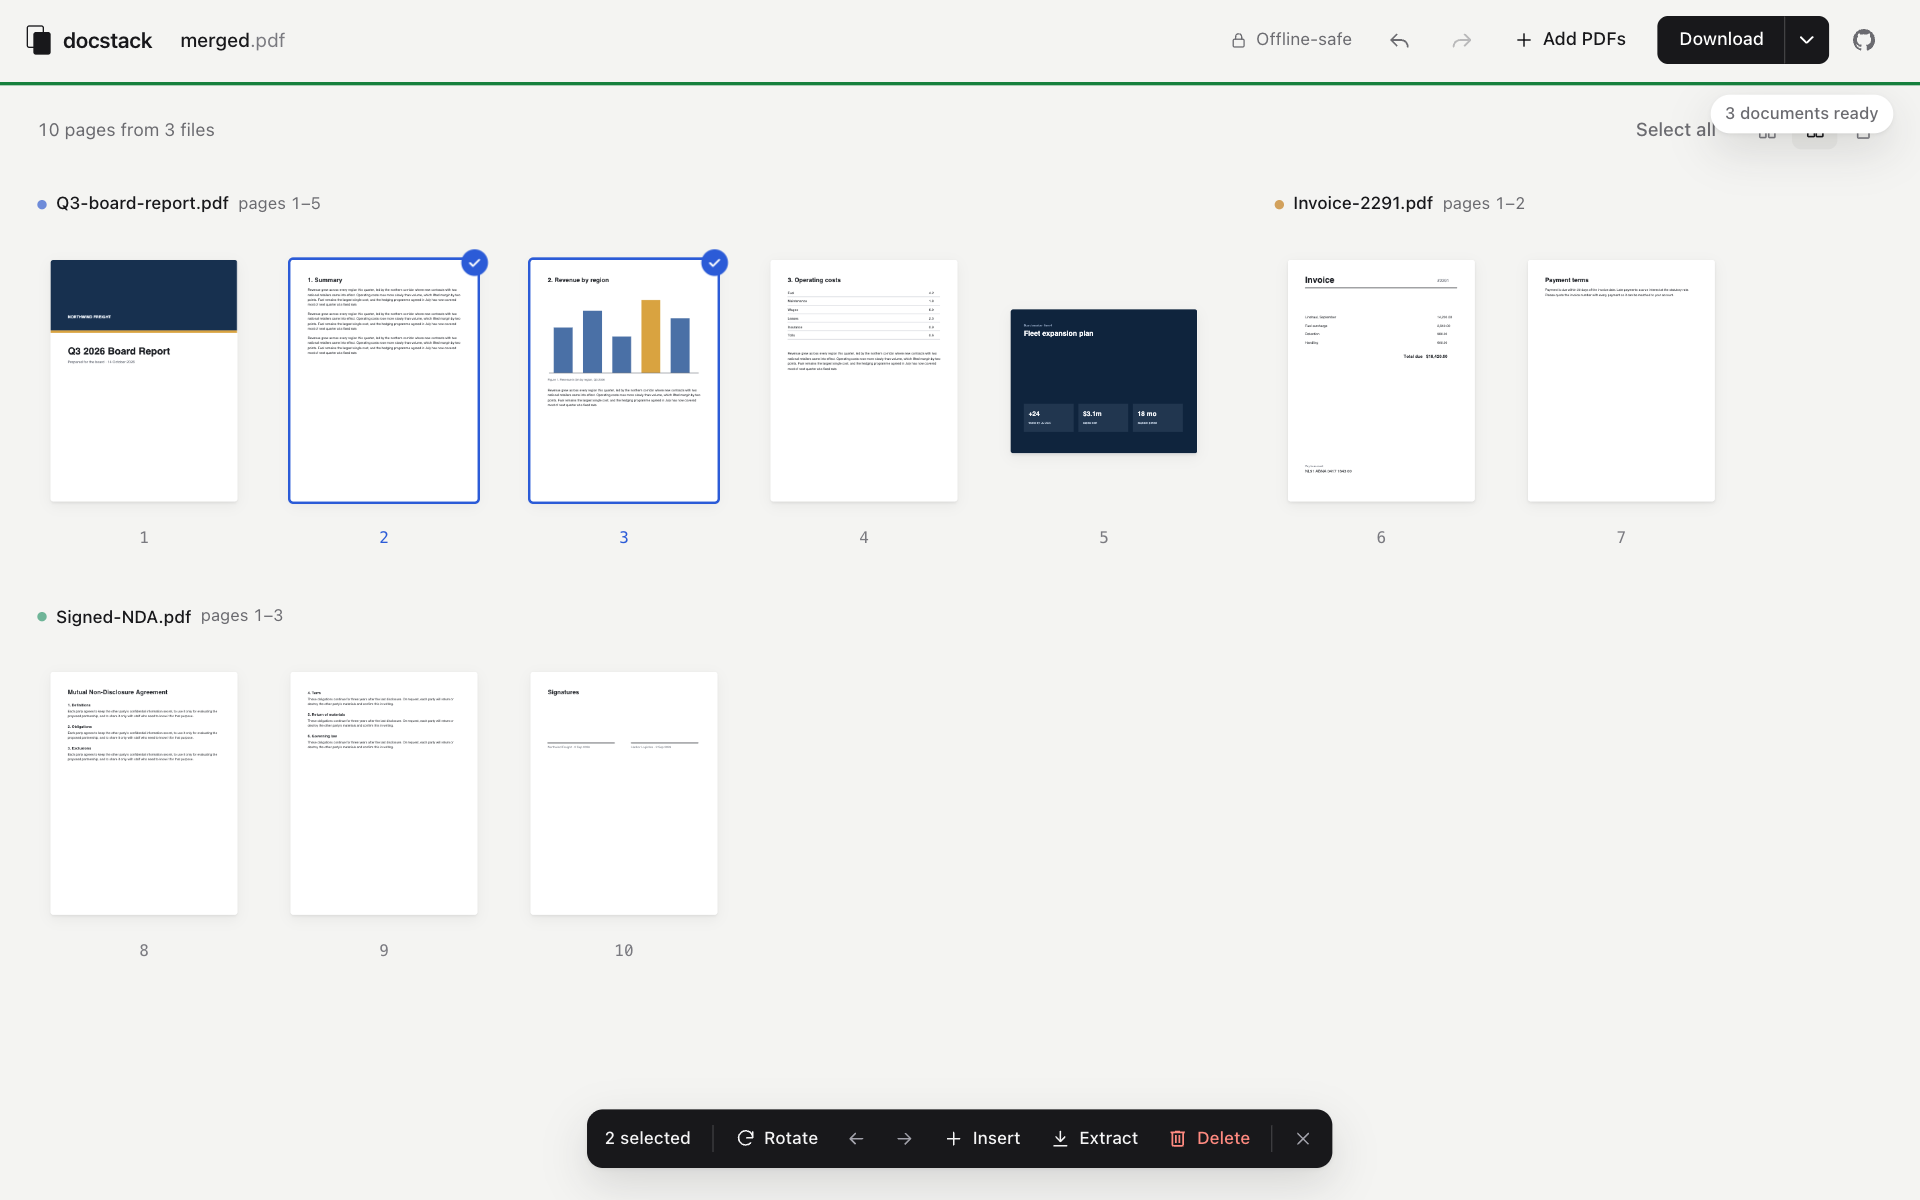
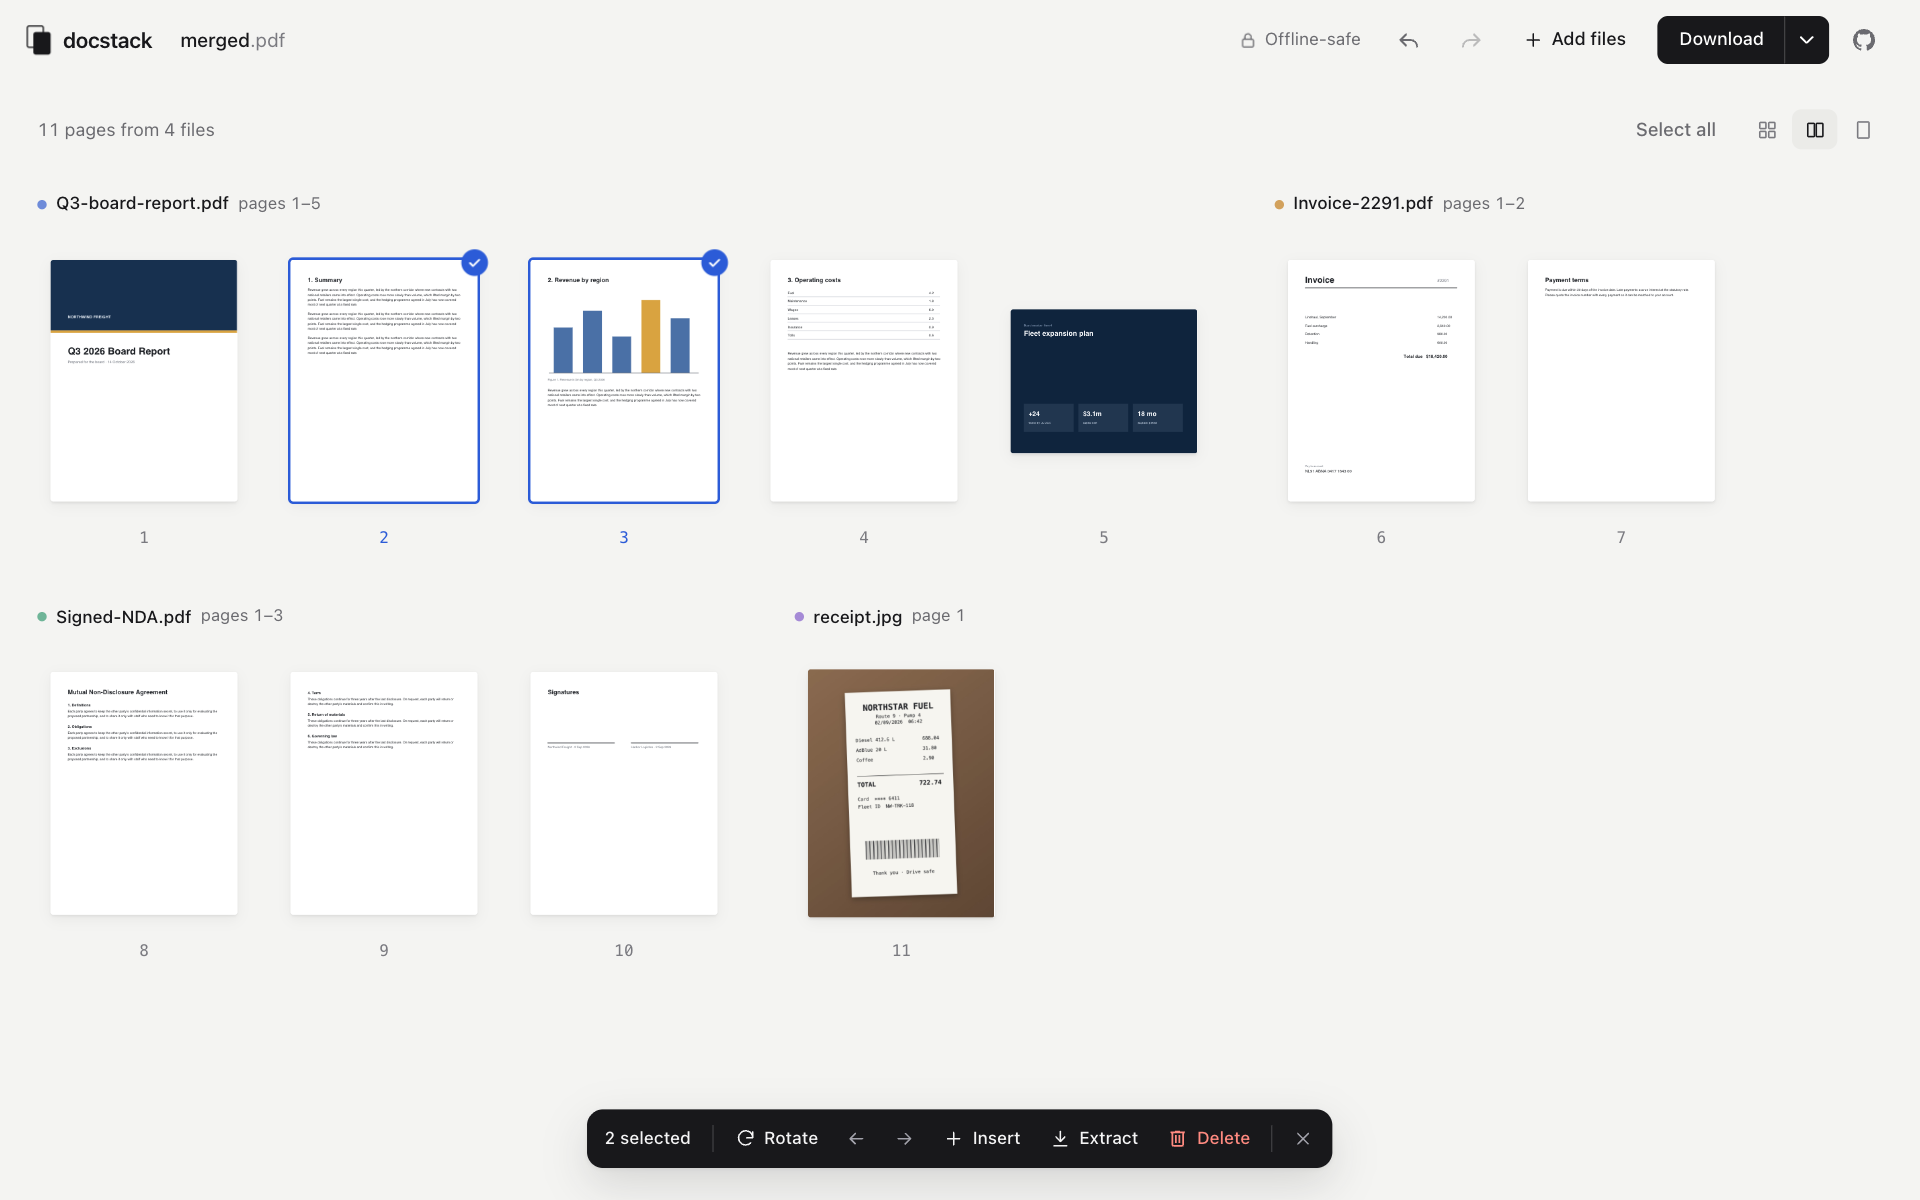
docs: show an image page in the README screenshots
Add a sample receipt photo to the screenshot script so the workspace
shot shows an image next to the PDFs, wait for the "documents ready"
progress chip to clear before capturing, and update the alt text.

Changed region(s): [[0.0, 0.0308, 1.0, 0.1233], [0.4062, 0.555, 0.5312, 0.7708], [0.4375, 0.4933, 0.5, 0.5242]]

diff --git a/README.md b/README.md
@@ -4,7 +4,7 @@
 
 [docstack.tools](https://docstack.tools)
 
-![The docstack workspace: pages from three PDFs grouped by file, with two pages selected and the selection bar showing Rotate, Insert, Extract and Delete](docs/screenshot-workspace.png)
+![The docstack workspace: pages from three PDFs and a photographed receipt grouped by file, with two pages selected and the selection bar showing Rotate, Insert, Extract and Delete](docs/screenshot-workspace.png)
 
 ## Features
 
@@ -100,7 +100,7 @@ test/                   tests
 
 ### Regenerating images
 
-- **README screenshots:** `node design/capture-screenshots.mjs` opens the app in headless Chrome with made-up sample PDFs and saves `docs/screenshot-*.png`. It needs Node 22+ and Google Chrome; set `CHROME_PATH` if Chrome is not in the default macOS location.
+- **README screenshots:** `node design/capture-screenshots.mjs` opens the app in headless Chrome with made-up sample PDFs and a sample photo and saves `docs/screenshot-*.png`. It needs Node 22+ and Google Chrome; set `CHROME_PATH` if Chrome is not in the default macOS location.
 - **Link-preview image:** the command is in the comment at the top of `design/social-card.html`.
 - **Touch icon:** render `design/apple-touch-icon.svg` the same way at 180×180, saving to `web/assets/apple-touch-icon.png`.
 
